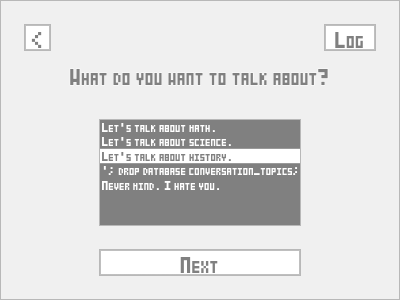
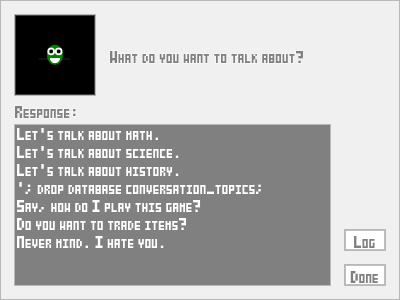
Updated conversations.

diff --git a/Source/Conversations/ConversationRun.js b/Source/Conversations/ConversationRun.js
@@ -58,19 +58,20 @@ class ConversationRun
 		var conversationDefn = conversationRun.defn;
 
 		var venueToReturnTo = universe.venueCurrent;
-		var fontHeight = 20;
-		var fontHeightShort = fontHeight * .6;
-		var marginWidth = 25;
+		
+		var fontHeight = 15;
+		var fontHeightShort = fontHeight; // todo
+		var marginWidth = 15;
 		var labelHeight = fontHeight;
-		var buttonHeight = 25;
+		var buttonHeight = 20;
 		var marginSize = new Coords(1, 1).multiplyScalar(marginWidth);
+		var buttonSize = new Coords(2, 1).multiplyScalar(buttonHeight);
+		var portraitSize = new Coords(4, 4).multiplyScalar(buttonHeight);
 		var listSize = new Coords
 		(
-			size.x * .6,
-			size.y - buttonHeight - labelHeight - marginSize.y * 4
+			size.x - marginSize.x * 3 - buttonSize.x,
+			size.y - portraitSize.y - marginSize.y * 4
 		);
-		var buttonSize = new Coords(listSize.x, buttonHeight);
-		var buttonTranscriptSize = new Coords(2, 1).multiplyScalar(buttonHeight); // size
 
 		var next = function()
 		{
@@ -103,16 +104,25 @@ class ConversationRun
 			size,
 			// children
 			[
+				new ControlVisual
+				(
+					"visualPortrait",
+					marginSize.clone(),
+					portraitSize, // size
+					conversationDefn.visualPortrait,
+					"Black" // colorBackground
+				),
+
 				new ControlLabel
 				(
 					"labelSpeaker",
 					new Coords
 					(
-						size.x / 2,
-						marginSize.y * 2 + buttonSize.y
+						marginSize.x * 2 + portraitSize.x,
+						marginSize.y + portraitSize.y / 2 - labelHeight / 2
 					), // pos
 					size, // size
-					true, // isTextCentered
+					false, // isTextCentered
 					new DataBinding
 					(
 						conversationRun,
@@ -121,13 +131,27 @@ class ConversationRun
 					fontHeight
 				),
 
+				new ControlLabel
+				(
+					"labelResponse",
+					new Coords
+					(
+						marginSize.x,
+						marginSize.y * 2 + portraitSize.y - fontHeight / 2
+					),
+					size, // size
+					false, // isTextCentered
+					"Response:",
+					fontHeight
+				),
+
 				new ControlList
 				(
 					"listResponses",
 					new Coords
 					(
-						(size.x - listSize.x) / 2,
-						marginSize.y * 3 + buttonSize.y + labelHeight
+						marginSize.x,
+						marginSize.y * 3 + portraitSize.y
 					),
 					listSize,
 					// items
@@ -162,10 +186,10 @@ class ConversationRun
 					"buttonTranscript",
 					new Coords
 					(
-						size.x - marginSize.x - buttonTranscriptSize.x,
-						marginSize.y
+						size.x - marginSize.x - buttonSize.x,
+						size.y - marginSize.y * 2 - buttonSize.y * 2
 					),
-					buttonTranscriptSize,
+					buttonSize.clone(),
 					"Log",
 					fontHeight,
 					true, // hasBorder
@@ -175,10 +199,14 @@ class ConversationRun
 
 				new ControlButton
 				(
-					"buttonBack",
-					marginSize, // pos
-					new Coords(1, 1).multiplyScalar(buttonHeight), // size
-					"<",
+					"buttonDone",
+					new Coords
+					(
+						size.x - marginSize.x - buttonSize.x,
+						size.y - marginSize.y - buttonSize.y
+					),
+					buttonSize.clone(),
+					"Done",
 					fontHeight,
 					true, // hasBorder
 					true, // isEnabled

diff --git a/Source/Conversations/ConversationDefn.js b/Source/Conversations/ConversationDefn.js
@@ -3,10 +3,10 @@
 
 class ConversationDefn
 {
-	constructor(name, imageName, contentTextStringName, talkNodeDefns, talkNodes)
+	constructor(name, visualPortrait, contentTextStringName, talkNodeDefns, talkNodes)
 	{
 		this.name = name;
-		this.imageName = imageName;
+		this.visualPortrait = visualPortrait;
 		this.contentTextStringName = contentTextStringName;
 		this.talkNodeDefns = talkNodeDefns.addLookupsByName();
 		this.talkNodes = talkNodes.addLookupsByName();
@@ -110,7 +110,8 @@ class ConversationDefn
 
 		// Additional processing to support minification.
 		conversationDefn.name = conversationDefn["name"];
-		conversationDefn.imageName = conversationDefn["imageName"];
+		var imagePortraitName = conversationDefn["imagePortraitName"];
+		conversationDefn.visualPortrait = new VisualImageFromLibrary(imagePortraitName);
 		conversationDefn.contentTextStringName =
 			conversationDefn["contentTextStringName"];
 

diff --git a/Source/main.js b/Source/main.js
@@ -7,7 +7,7 @@ function main()
 	var mediaLibrary = MediaLibrary.fromFileNames
 	(
 		"../Content/",
-		[ "Title.png", ],
+		[ "Friendly.png", "Title.png", ],
 		[ "Sound.wav" ],
 		[ "Music.mp3" ],
 		[ "Movie.webm" ],
